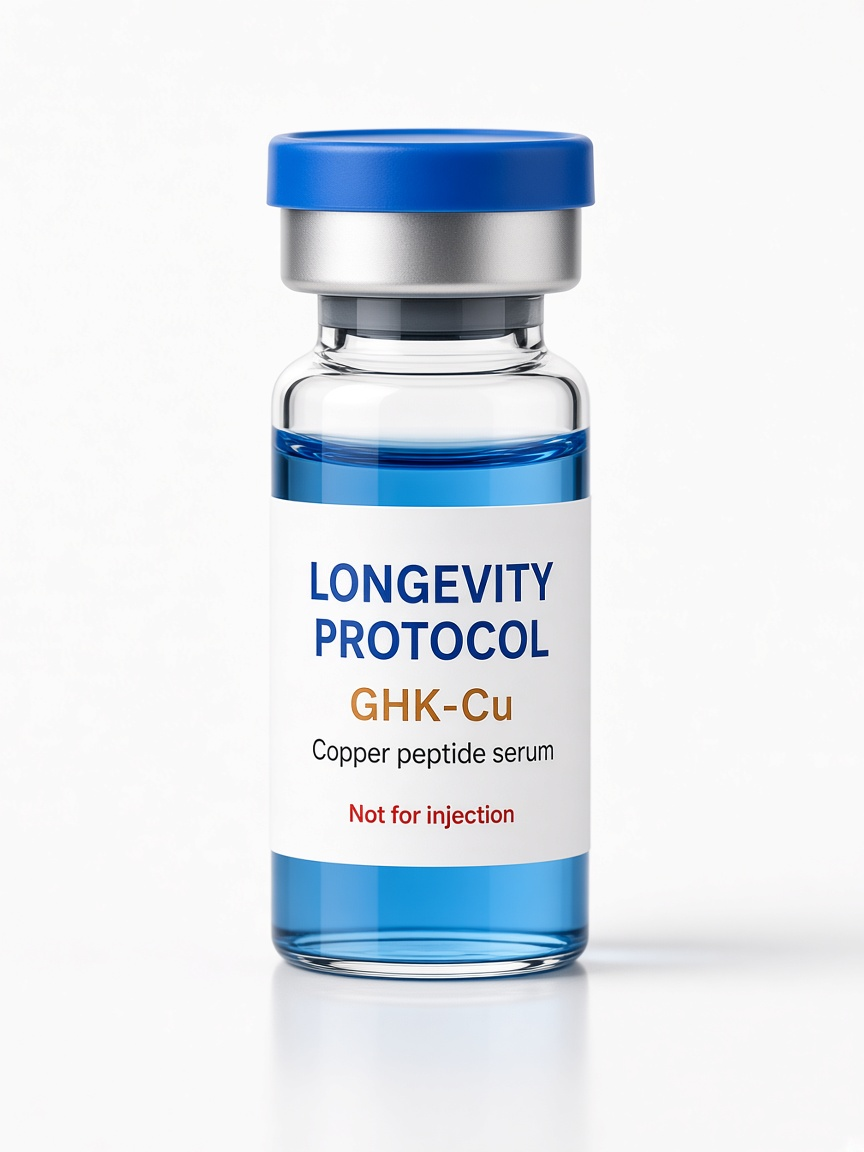
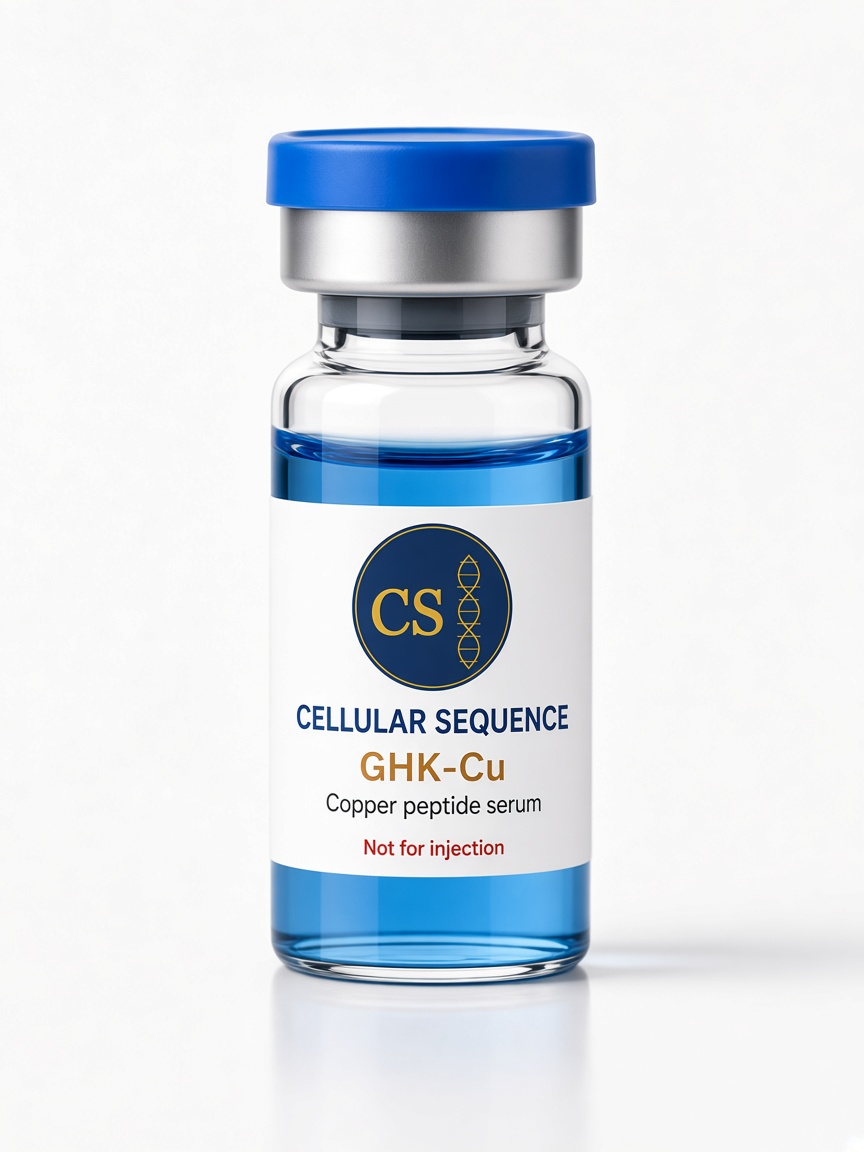
Put Cellular Sequence on every product and lead with a one-stop shop headline.

diff --git a/src/lib/products.ts b/src/lib/products.ts
@@ -146,7 +146,7 @@ export const products: Product[] = [
   },
   {
     slug: "cooling-case",
-    name: "Protocol Cooling Case",
+    name: "Cooling Case",
     category: "cooling-storage",
     price: "$64",
     summary: "Insulated storage for temperature-sensitive cosmetic serums while travelling.",
@@ -182,7 +182,7 @@ export const products: Product[] = [
   },
   {
     slug: "alcohol-prep-pads",
-    name: "Protocol Alcohol Prep Pads",
+    name: "Alcohol Prep Pads",
     category: "preparation-hygiene",
     price: "$12",
     summary: "Individually wrapped prep pads for cleansing skin before cosmetic needling. Not for injectable research compounds.",
@@ -194,7 +194,7 @@ export const products: Product[] = [
   },
   {
     slug: "nitrile-gloves",
-    name: "Protocol Nitrile Gloves",
+    name: "Nitrile Gloves",
     category: "preparation-hygiene",
     price: "$18",
     summary: "Disposable black nitrile gloves for a clean cosmetic needling setup.",
@@ -206,7 +206,7 @@ export const products: Product[] = [
   },
   {
     slug: "disposable-syringes",
-    name: "Protocol Disposable Syringes",
+    name: "Disposable Syringes",
     category: "preparation-hygiene",
     price: "$16",
     summary: "Single-use 1 ml syringes for measuring cosmetic serums in the protocol kit. Dispose as sharps. Research-only peptides are not sold.",
@@ -216,7 +216,7 @@ export const products: Product[] = [
   },
   {
     slug: "cartridge-injector",
-    name: "Protocol 3 mL Cartridge Injector",
+    name: "3 mL Cartridge Injector",
     category: "facial-needling",
     price: "$54",
     summary: "Disposable multi-dose 3 mL cartridge injector for protocol cosmetic use. Research-only compounds cannot be purchased here.",

diff --git a/src/components/ProductPhoto.tsx b/src/components/ProductPhoto.tsx
@@ -1,5 +1,17 @@
 import Image from "next/image";
-import { ProductPackLabel } from "@/components/BrandLogo";
+import { LogoMark, ProductPackLabel } from "@/components/BrandLogo";
+import { SITE_NAME } from "@/lib/site";
+
+function ProductBrandChip() {
+  return (
+    <div className="pointer-events-none absolute left-2 top-2 z-10 flex items-center gap-1.5 bg-[#12345c] px-1.5 py-1">
+      <LogoMark className="h-5 w-5" />
+      <span className="text-[8px] font-medium uppercase tracking-[0.14em] text-[#c9a227]">
+        {SITE_NAME}
+      </span>
+    </div>
+  );
+}
 
 export function ProductPhoto({
   src,
@@ -22,14 +34,16 @@ export function ProductPhoto({
   labelDetail?: string;
   labelFooter?: string;
 }) {
-  const overlayLabel = Boolean(labelName) && src.includes("product-vial");
+  const isVial = src.includes("product-vial");
+  const overlayLabel = Boolean(labelName) && isVial;
   return (
-    <div className={`relative overflow-hidden ${src.includes("product-vial") ? "bg-black" : "bg-white"} ${className}`}>
+    <div className={`relative overflow-hidden ${isVial ? "bg-black" : "bg-[#f3eee4]"} ${className}`}>
       <Image
         src={src}
         alt={alt}
         fill
         priority={priority}
+        unoptimized
         className="object-contain"
         sizes={sizes}
       />
@@ -40,7 +54,9 @@ export function ProductPhoto({
           footer={labelFooter}
           size={brandSize}
         />
-      ) : null}
+      ) : (
+        <ProductBrandChip />
+      )}
     </div>
   );
 }

diff --git a/src/components/ProtocolCategories.tsx b/src/components/ProtocolCategories.tsx
@@ -10,7 +10,7 @@ export function ProtocolLandingHero() {
         <div className="grid grid-cols-2 items-center gap-4 sm:gap-8 lg:gap-12">
           <div>
             <h1 className="font-serif text-2xl leading-[1.08] sm:text-4xl md:text-5xl">
-              A clinic-inspired peptide protocol, explained simply.
+              One stop for clinical-grade peptides, microneedling, and patches.
             </h1>
             <ul className="mt-4 space-y-2 text-sm text-ink-soft sm:mt-6 sm:text-base">
               <li>Peptides and protocols for skin, health and injury recovery, available to buy</li>

diff --git a/src/lib/navigation.ts b/src/lib/navigation.ts
@@ -69,7 +69,7 @@ export const microneedlingNav: NavLink[] = [
   { label: "Professional facial needling pen", href: "/shop/facial-needling#protocol-needling-pen" },
   { label: "Disposable micro-infusion", href: "/shop/facial-needling#disposable-micro-infusion-stamps" },
   { label: "Disposable stamp head pack", href: "/shop/facial-needling#pen-cartridge-pack" },
-  { label: "Protocol 3 mL cartridge injector", href: "/shop/facial-needling#cartridge-injector" },
+  { label: "3 mL cartridge injector", href: "/shop/facial-needling#cartridge-injector" },
 ];
 
 export const shopNav: NavLink[] = [

diff --git a/src/lib/pages.ts b/src/lib/pages.ts
@@ -179,7 +179,7 @@ export const pages: Record<string, ContentPage> = {
     kicker: "Guide",
     title: "Cooling case guide",
     intro: "Travel storage for cosmetic serums — not a medical cold chain for unapproved injectables.",
-    sections: [{ heading: "Shop", body: "Protocol Cooling Case." }],
+    sections: [{ heading: "Shop", body: "Cooling Case." }],
   },
   "/learn/pen-accessory-guide": {
     kicker: "Guide",
